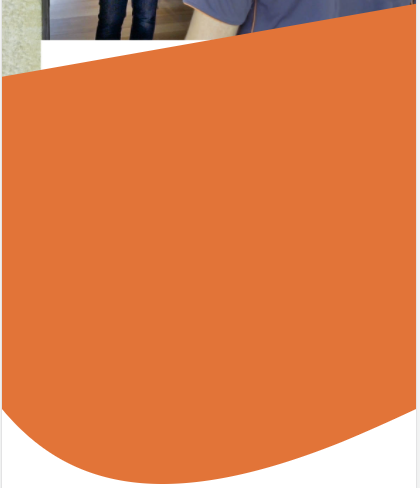
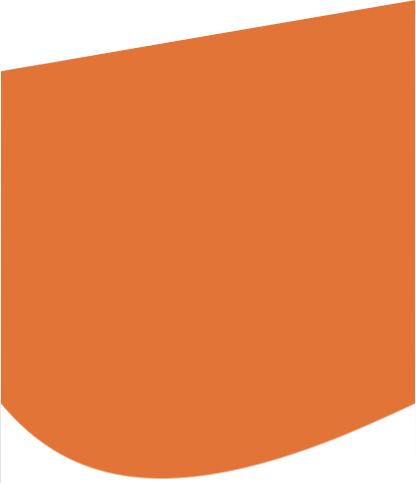
more css changes

diff --git a/styles.css b/styles.css
@@ -8,10 +8,10 @@ body {
 
 /*IPAD*/
 @media only screen and (min-width: 1024px) and (max-width: 1366px) and (-webkit-min-device-pixel-ratio: 2) {
-    .covidbanner {
-        margin-left: 4em;
-        margin-top: -2em;
-      }
+  .covidbanner {
+    margin-left: 4em;
+    margin-top: -2em;
+  }
 }
 @media only screen and (min-width: 768px) and (max-width: 1024px) {
   .img_fix2u {
@@ -40,22 +40,26 @@ body {
 }
 /*All Phones*/
 @media only screen and (min-width: 414px) and (max-width: 896px) {
-    .covidbanner {
-        margin-top: -2em;
-      }
+  .covidbanner {
+    margin-top: -4em !important;
+  }
 }
 @media only screen and (min-width: 412px) and (max-width: 869px) {
-    .covidbanner {
-        margin-top: -2em;
-      }
+  .covidbanner {
+    top: -2em !important;
+  }
 }
 
 @media only screen and (min-width: 428px) and (max-width: 926px) {
-    .covidbanner {
-        margin-top: -4em;
-      }
+  .covidbanner {
+    margin-top: -4em !important;
+  }
 }
 @media only screen and (max-width: 428px) {
+  
+  .wdcovid {
+    width: 23% !important;
+  }
   .img_mobile_fix2u {
     background: url(img/banner1112-min.png) no-repeat !important;
     background-size: 100% auto !important;
@@ -70,13 +74,13 @@ body {
   #mobile {
     display: block !important;
   }
-  .imgmob{
+  .imgmob {
     position: relative;
     top: -6em;
     left: -1em;
-    width: 107%;
+    width: 109%;
   }
- 
+
   .ProductReview {
     display: none;
   }
@@ -85,37 +89,43 @@ body {
   }
   .RP {
     display: block !important;
-    position: relative;
-    top: -3.1em;
-    left: 2.2em;
-    width: 87%;
+    font-family: Lato;
+    height: auto;
+    width: 232.812px;
+    line-height: 20px;
+    letter-spacing: 0px;
     font-weight: 700;
-    font-size: 13px;
+    font-size: 16px;
+    margin: 0 auto;
+    position: relative;
+    top: -2em;
+    left: 0.5em;
   }
   .covidbanner {
-    width: 67% !important;
-    height: 15em !important;
-    top: -37.8em !important;
-    left: 1.6em !important;
+    width: 81% !important;
+    height: 18em !important;
+    top: -38.5em !important;
+    left: unset !important;
   }
   .covidLine {
     height: 56px !important;
-    top: -0.5em !important;
+    top: 0.5em !important;
     left: 1.1em !important;
+    border-left: 4px solid #e26625 !important;
   }
   .fntSZ {
-    font-size: 21px !important;
-    left: 0.9em !important;
+    left: 0.4em !important;
     width: 80% !important;
     top: 0em !important;
+    font-size: 27px !important;
   }
   .CovidSafeBadge {
     left: -2em !important;
-    top: -6em !important;
+    top: -7.56em !important;
   }
   .RmD {
     width: 63%;
-    top: -4.5em !important;
+    top: -3.8em !important;
   }
   .whitelink {
     font-size: 17px !important;
@@ -141,14 +151,14 @@ body {
   top: -12em;
 }
 .covidbanner {
-    margin: 0 auto;
+  margin: 0 auto;
   border: 2px solid #fff;
-  width: 31%;
+  width: 30%;
   height: 55%;
   position: relative;
   top: -28.5em;
   border-radius: 0;
-  left: -24%;
+  left: -18rem;
   background: #ffff;
   padding: 10px;
   border-radius: 16px;
@@ -157,66 +167,66 @@ body {
 }
 .covidLine {
   position: relative;
-  left: 1.3em;
+  left: 0.2em;
   border-left: 3px solid #e26625;
-  height: 56px;
+  height: 73px;
+  top: -1em;
 }
 
 .fntSZ {
-  font-size: 26px;
-  font-family: sans-serif;
-  position: relative;
-  left: 0.7em;
-  width: 50%;
-  top: -0.2em;
+    font-size: 33px;
+    font-family: Circular-Pro-Bold;
+    position: relative;
+    left: 0.3em;
+    width: 67%;
+    top: 0em;
+    font-weight: 800;
 }
 .CovidSafeBadge {
   position: relative;
-  left: 21.2em;
-  top: -5em;
+  left: 20.2em;
+  top: -6em;
 }
 .wdcovid {
-  width: 18%;
+  width: 19%;
 }
 
 .lidata {
-  font-size: 16px !important;
+  font-size: 14px !important;
   position: relative;
-  top: -5em;
-  font-weight: bolder !important;
+  top: -7em;
+  font-weight: 800 !important;
+  letter-spacing: normal;
 }
 .RmD {
-    background-color: rgb(0, 122, 255);
-    color: rgb(255, 255, 255);
-    white-space: normal;
-    width: 281.042px;
-    height: 53px;
-    line-height: 45px;
-    font-weight: 700;
-    font-size: 18px;
-    box-shadow: rgb(0 0 0 / 15%) 5px 5px 10px 0px;
-    padding-left: 35px;
-    border-radius: 3px;
-    padding-right: 35px;
-    padding-top: 0px;
-    backdrop-filter: none;
-    filter: brightness(120%);
-    transform-origin: 50% 50%;
-    opacity: 1;
-    transform: translate(0px, 0px);
-    position: relative;
-    top: -1em;
- 
-
-   width: 63%;
-  height: 18%;
+  background-color: rgb(0, 122, 255);
+  color: rgb(255, 255, 255);
+  white-space: normal;
+  line-height: 54px;
+  font-weight: 700;
+  font-size: 18px;
+  font-family: Lato;
+  box-shadow: rgb(0 0 0 / 15%) 5px 5px 10px 0px;
+  padding-left: 35px;
+  border-radius: 3px;
+  padding-right: 35px;
+  padding-top: 0px;
+  backdrop-filter: none;
+  filter: brightness(120%);
+  transform-origin: 50% 50%;
+  opacity: 1;
+  transform: translate(0px, 0px);
+  position: relative;
+  top: -1.7em;
+  width: 54%;
+  height: 21%;
   text-align: center;
   margin: 0 auto;
 }
 .whitelink {
   color: #fff;
   text-decoration: none;
-  font-size: 22px;
+  font-size: 20px;
 }
 .ProductReview {
   position: relative;
@@ -234,4 +244,5 @@ body {
   position: relative;
   left: 1em;
   top: 1.5em;
+  font-family: 'Lato';
 }

diff --git a/index.html b/index.html
@@ -9,13 +9,14 @@
       rel="stylesheet"
       href="https://cdnjs.cloudflare.com/ajax/libs/font-awesome/4.7.0/css/font-awesome.min.css"
     />
+    <link href="https://fonts.googleapis.com/css2?family=Lato&display=swap" rel="stylesheet">
   </head>
   <body>
     <div class="nonmobile">
     <img src="img/Curve-min-1-min.png"  style="width: 100%" class="img_fix2u"/>
    </div>
    <div id="mobile">
-    <img src="img/banner1112-min.png" class="tp-rs-img rs-lazyload" width="1920" height="1250" data-lazyload="//www.fix2u.com/wp-content/uploads/banner1112-min.jpg" data-no-retina="" data-reference="//www.fix2u.com/wp-content/uploads/banner1112-min.jpg" data-src-rs-ref="//www.fix2u.com/wp-content/uploads/banner1112-min.jpg" style="position: relative;height: 100%;width: 106%; top:-1em;left: -1em;">
+    <img src="img/banner1112-min.png"  style="position: relative;height: 100%;width: 109%; top:-1em;left: -1em;">
    <img src="img/mobileimage.PNG"  alt="mobileImg" class="imgmob"/>
    </div>
     <div class="covidbanner">
@@ -32,9 +33,8 @@
             alt="CovidSafeBanner"
         /></a>
       </div>
-      <p class="RP">
-        &nbsp;We Travel To You and Repair Your Device On the Spot
-      </p>
+      <div class="RP">We Travel To You and Repair Your Device On the Spot
+      </div>
       <div class="leftlidata">
         <i class="fa fa-check-circle lidata"
           >&nbsp;We Travel To You and Repair Your Device On the Spot</i
